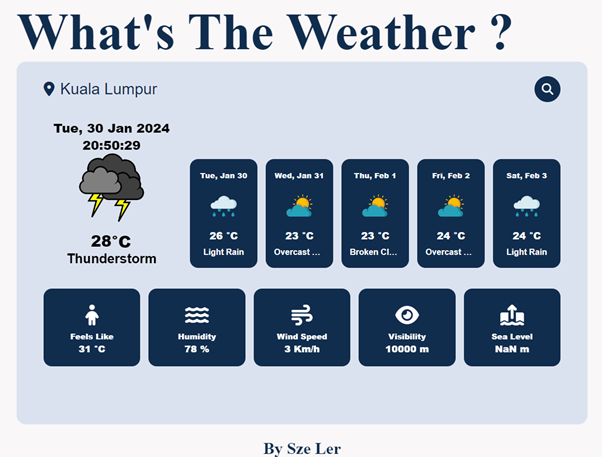
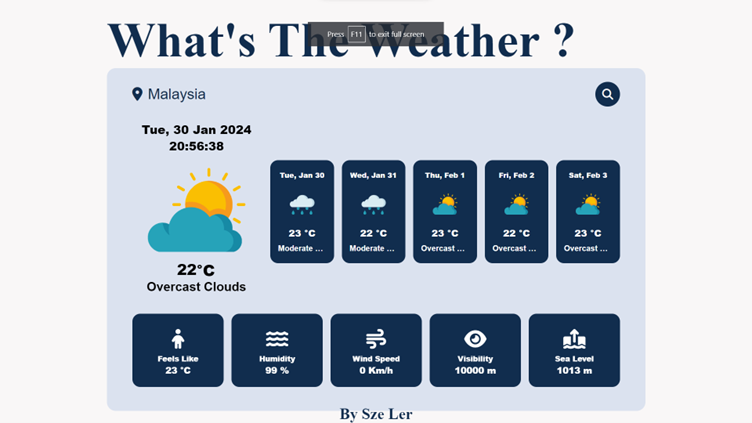
Bug Fix

diff --git a/src/data/constants.js b/src/data/constants.js
@@ -126,9 +126,9 @@ export const Bio = {
       description:
         "Developed My Very First Website",
       image:
-        " https://github.com/SzeLer/portfolio/raw/master/src/Image/Pic1.png",
+        " https://github.com/SzeLer/portfolio/raw/master/src/Image/Picture1.png",
       tags: ["React Js", "CSS"],
-      category: "web app",
+      category: "data",
       github: "https://github.com/SzeLer/portfolio",
       webapp: "https://sze-ler-portfolio-9y9br5864-sze-lers-projects.vercel.app/"
     },
@@ -138,11 +138,11 @@ export const Bio = {
       date: "Jan 2024",
       description:
         "Weather WebApp which helps in forecasting weather for countries around the world",
-      image: {photo1},
+      image: "https://github.com/SzeLer/portfolio/raw/master/src/Image/Picture2.png",
       tags: ["HTML", "CSS", "JavaScript"],
-      category: "data",
-      github: "https://github.com/SzeLer/portfolio",
-      webapp : "https://sze-ler-portfolio-9y9br5864-sze-lers-projects.vercel.app/"
+      category: "web app",
+      github: "https://github.com/SzeLer/What-s-The-Weather",
+      webapp : "https://szeler.github.io/SzeLer.github.io-What-s-The-Weather/"
     },
   ];
   
